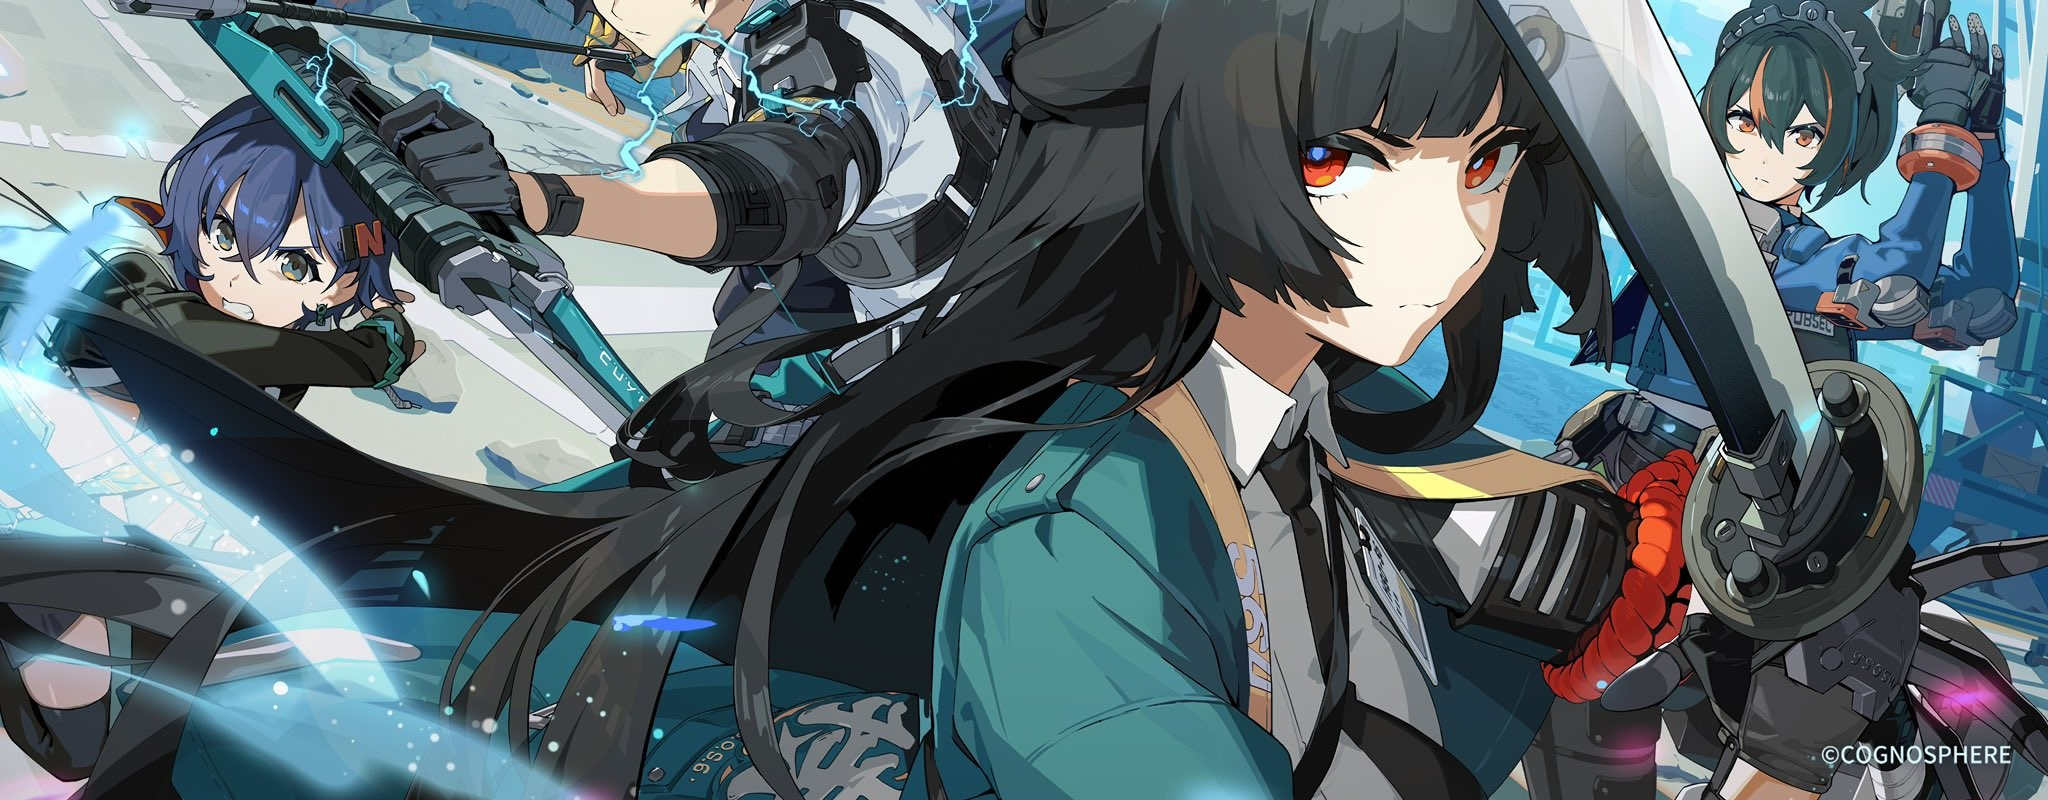
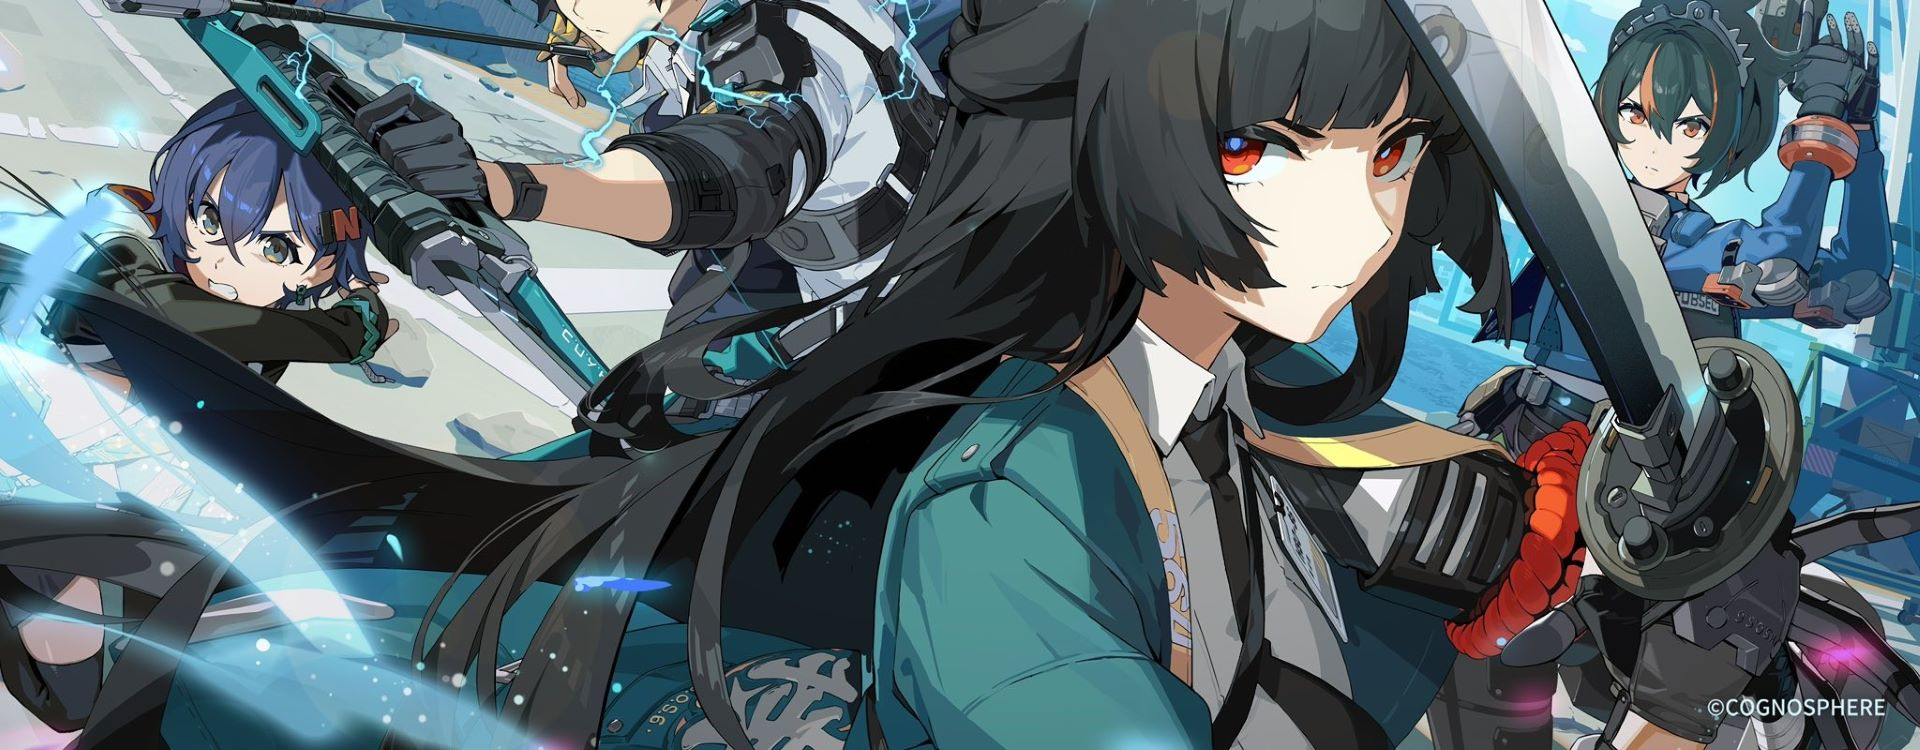
deploy: 306e7873b2070d3354c83fd5dc28f9cbc8f4abfb

Changed region(s): [[0.3438, 0.1227, 0.375, 0.1533], [0.1562, 0.368, 0.1875, 0.3987], [0.125, 0.3067, 0.1562, 0.3373]]

diff --git a/index.html b/index.html
@@ -226,11 +226,11 @@
 
     <div class="background-container">
         <div class="image-fade"></div>
-        <img src="/images/home_bg.jpg" alt="Background art">
+        <img src="/images/home_bg.webp" alt="Background art">
     </div>
 
     <div class="small-background-container">
-        <img src="/images/home_bg_small.jpg" alt="Background art">
+        <img src="/images/home_bg_small.webp" alt="Background art">
     </div>
 
     <main class="main-content">
@@ -244,12 +244,12 @@
                 <h2>Available games:</h2>
                 To see all available games press ▼ button at the top near home button:
                 <div>
-                    <img src="/images/home_button.jpg">
+                    <img src="/images/home_button.webp">
                 </div>
 
                 You can drag and drop game buttons to ensure games you play are at the top row:
                 <div>
-                    <img src="/images/header.jpg">
+                    <img src="/images/header.webp">
                 </div>
 
                 <h2>Upcoming updates(Only if I see enough interest from the people):</h2>

diff --git a/R1999/index.html b/R1999/index.html
@@ -112,11 +112,11 @@
     <!-- Background Image -->
     <div class="background-container">
         <div class="image-fade"></div>
-        <img src="/images/reverse_bg.jpg" alt="Background art">
+        <img src="/images/reverse_bg.webp" alt="Background art">
     </div>
 
     <div class="small-background-container">
-        <img src="/images/reverse_bg_small.jpg" alt="Background art">
+        <img src="/images/reverse_bg_small.webp" alt="Background art">
     </div>
 
     <main class="main-content">

diff --git a/ZZZ/index.html b/ZZZ/index.html
@@ -115,11 +115,11 @@
     <!-- Background Image -->
     <div class="background-container">
         <div class="image-fade"></div>
-        <img src="/images/zenless_bg.jpg" alt="Background art">
+        <img src="/images/zenless_bg.webp" alt="Background art">
     </div>
 
     <div class="small-background-container">
-        <img src="/images/zenless_bg_small.jpg" alt="Background art">
+        <img src="/images/zenless_bg_small.webp" alt="Background art">
     </div>
 
     <!-- Main Content -->

diff --git a/genshin/index.html b/genshin/index.html
@@ -112,11 +112,11 @@
 
     <div class="background-container">
         <div class="image-fade"></div>
-        <img src="/images/genshin_bg_cropped.png" alt="Background art">
+        <img src="/images/genshin_bg_cropped.webp" alt="Background art">
     </div>
 
     <div class="small-background-container">
-        <img src="/images/genshin_bg_small.png" alt="Background art">
+        <img src="/images/genshin_bg_small.webp" alt="Background art">
     </div>
 
     <main class="main-content">

diff --git a/HSR/index.html b/HSR/index.html
@@ -115,11 +115,11 @@
 
     <div class="background-container">
         <div class="image-fade"></div>
-        <img src="/images/honkai_bg.jpeg" alt="Background art">
+        <img src="/images/honkai_bg.webp" alt="Background art">
     </div>
 
     <div class="small-background-container">
-        <img src="/images/honkai_bg_small.jpeg" alt="Background art">
+        <img src="/images/honkai_bg_small.webp" alt="Background art">
     </div>
 
     <main class="main-content">

diff --git a/wuwa/index.html b/wuwa/index.html
@@ -112,11 +112,11 @@
 
     <div class="background-container">
         <div class="image-fade"></div>
-        <img src="/images/wuwa_bg.jpg" alt="Background art">
+        <img src="/images/wuwa_bg.webp" alt="Background art">
     </div>
 
     <div class="small-background-container">
-        <img src="/images/wuwa_bg_small.jpg" alt="Background art">
+        <img src="/images/wuwa_bg_small.webp" alt="Background art">
     </div>
 
     <main class="main-content">
